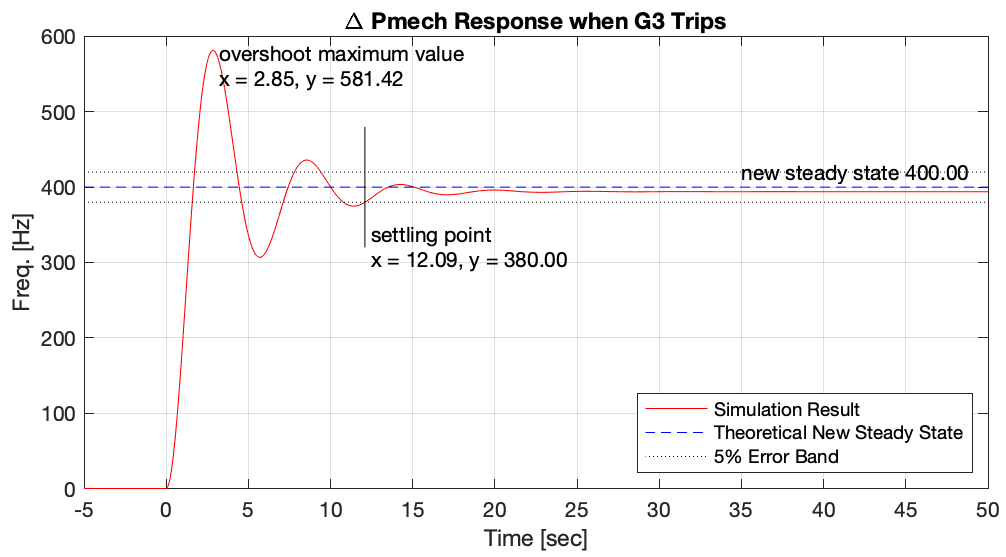
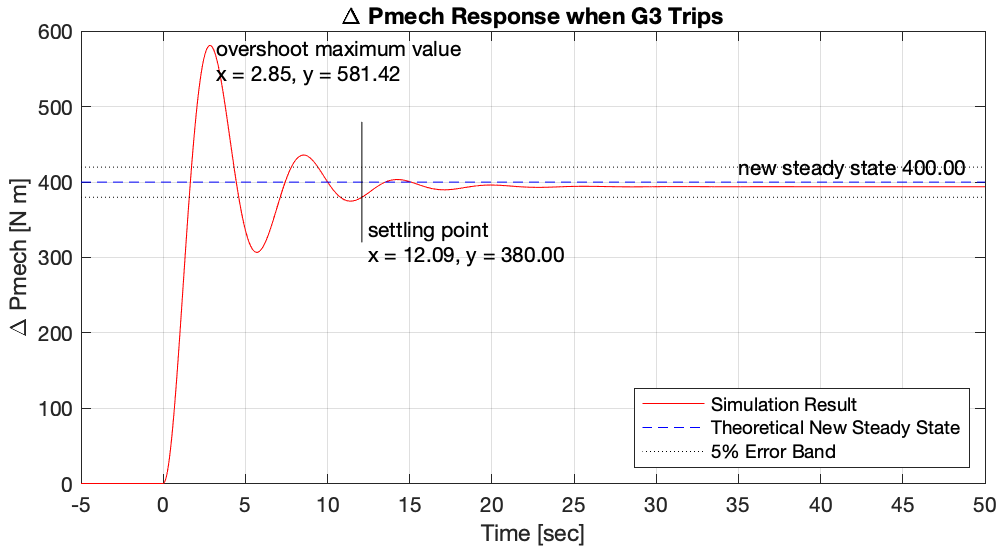
update

diff --git a/src/main.m b/src/main.m
@@ -1,5 +1,7 @@
 close all, clear, clc
 
+addpath('~/GitHub/FreqControl/src')
+
 Punit=[1100 900 700 600];% Nominal Power
 I_pu=[0.28 1.33 1 1.49];% Inertia p.u in system base
 Runit=[0.05 0.05 0.05 0.05];% Droop
@@ -20,7 +22,7 @@ dP=Pset(3)/Pbase;% load change in MW
 fHz=50;
 
 %% Q3 a-e
-sim('Assignment1Q3Model');
+sim('modPowerSys');
 plotAnalysis(del_omega.time, fHz*(1+del_omega.signals.values), 49.62, ...
   'Frequency Response when G3 Trips', 'Q3d')
 plotAnalysisPower(del_omega.time, Pbase*del_Pmech.signals.values, 400, ...
@@ -28,21 +30,21 @@ plotAnalysisPower(del_omega.time, Pbase*del_Pmech.signals.values, 400, ...
 
 %% Q3 a-e
 D = 2 * D;
-sim('Assignment1Q3Model');
+sim('modPowerSys');
 plotAnalysis(del_omega.time, fHz*(1+del_omega.signals.values), 49.62, ...
   'Frequency Response when G3 Trips with Double Inertia', 'Q3f')
 D = 0.5 * D;
 
 %% Q3 f-g
 M = 2 * M;
-sim('Assignment1Q3Model');
+sim('modPowerSys');
 plotAnalysis(del_omega.time, fHz*(1+del_omega.signals.values), 49.62, ...
   'Frequency Response when G3 Trips with Double Damping', 'Q3g')
 M = 0.5 * M;
 
 %% Q3 h
 figure()
-sim('Assignment1Q3Model');
+sim('modPowerSys');
 hold on
 h = plot(del_omega.time, fHz*(1+del_omega.signals.values),'b');
 grid on 
@@ -50,7 +52,7 @@ pbaspect([2 1 1])
 
 %
 R = 0.02;% droop
-sim('Assignment1Q3Model'); 
+sim('modPowerSys'); 
 R = 0.05;% droop
 plot(del_omega.time, fHz*(1+del_omega.signals.values),'r');
 

diff --git a/src/plotAnalysisPower.m b/src/plotAnalysisPower.m
@@ -36,7 +36,7 @@ text(xSettle, ySteady - (ySteady) * 0.2, txt);
 legend([h1 h2 h3], {'Simulation Result', 'Theoretical New Steady State', ...
   '5% Error Band', '5% Error Band'}, 'Location', 'southeast');
 xlabel('Time [sec]');
-ylabel('Freq. [Hz]');
+ylabel('\Delta Pmech [N m]');
 xlim([-5 50]);
 ylim([0 600]);
 title(strTitle);
